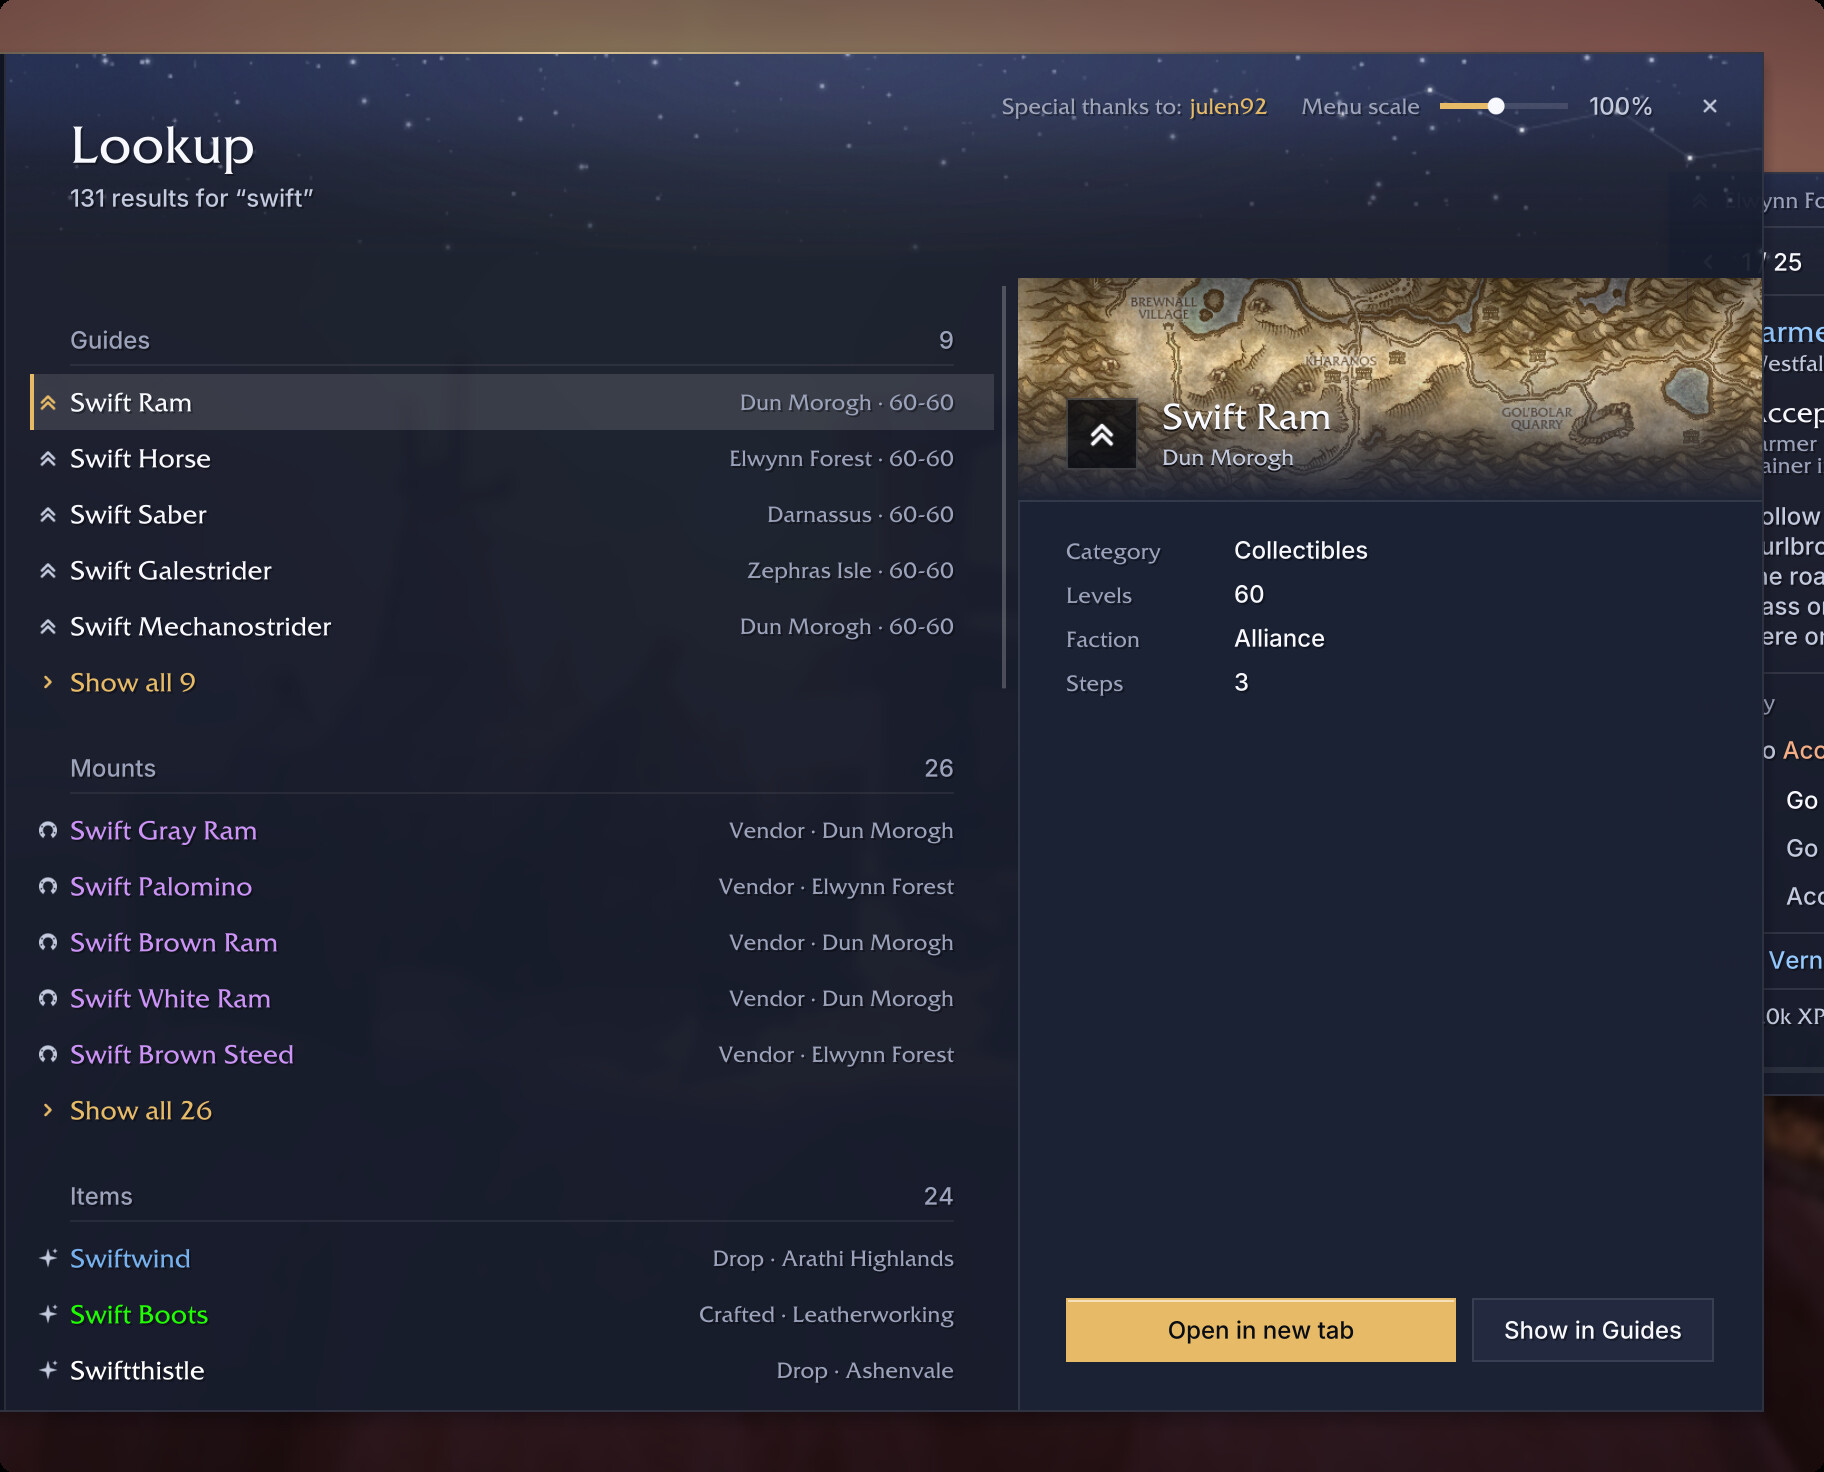
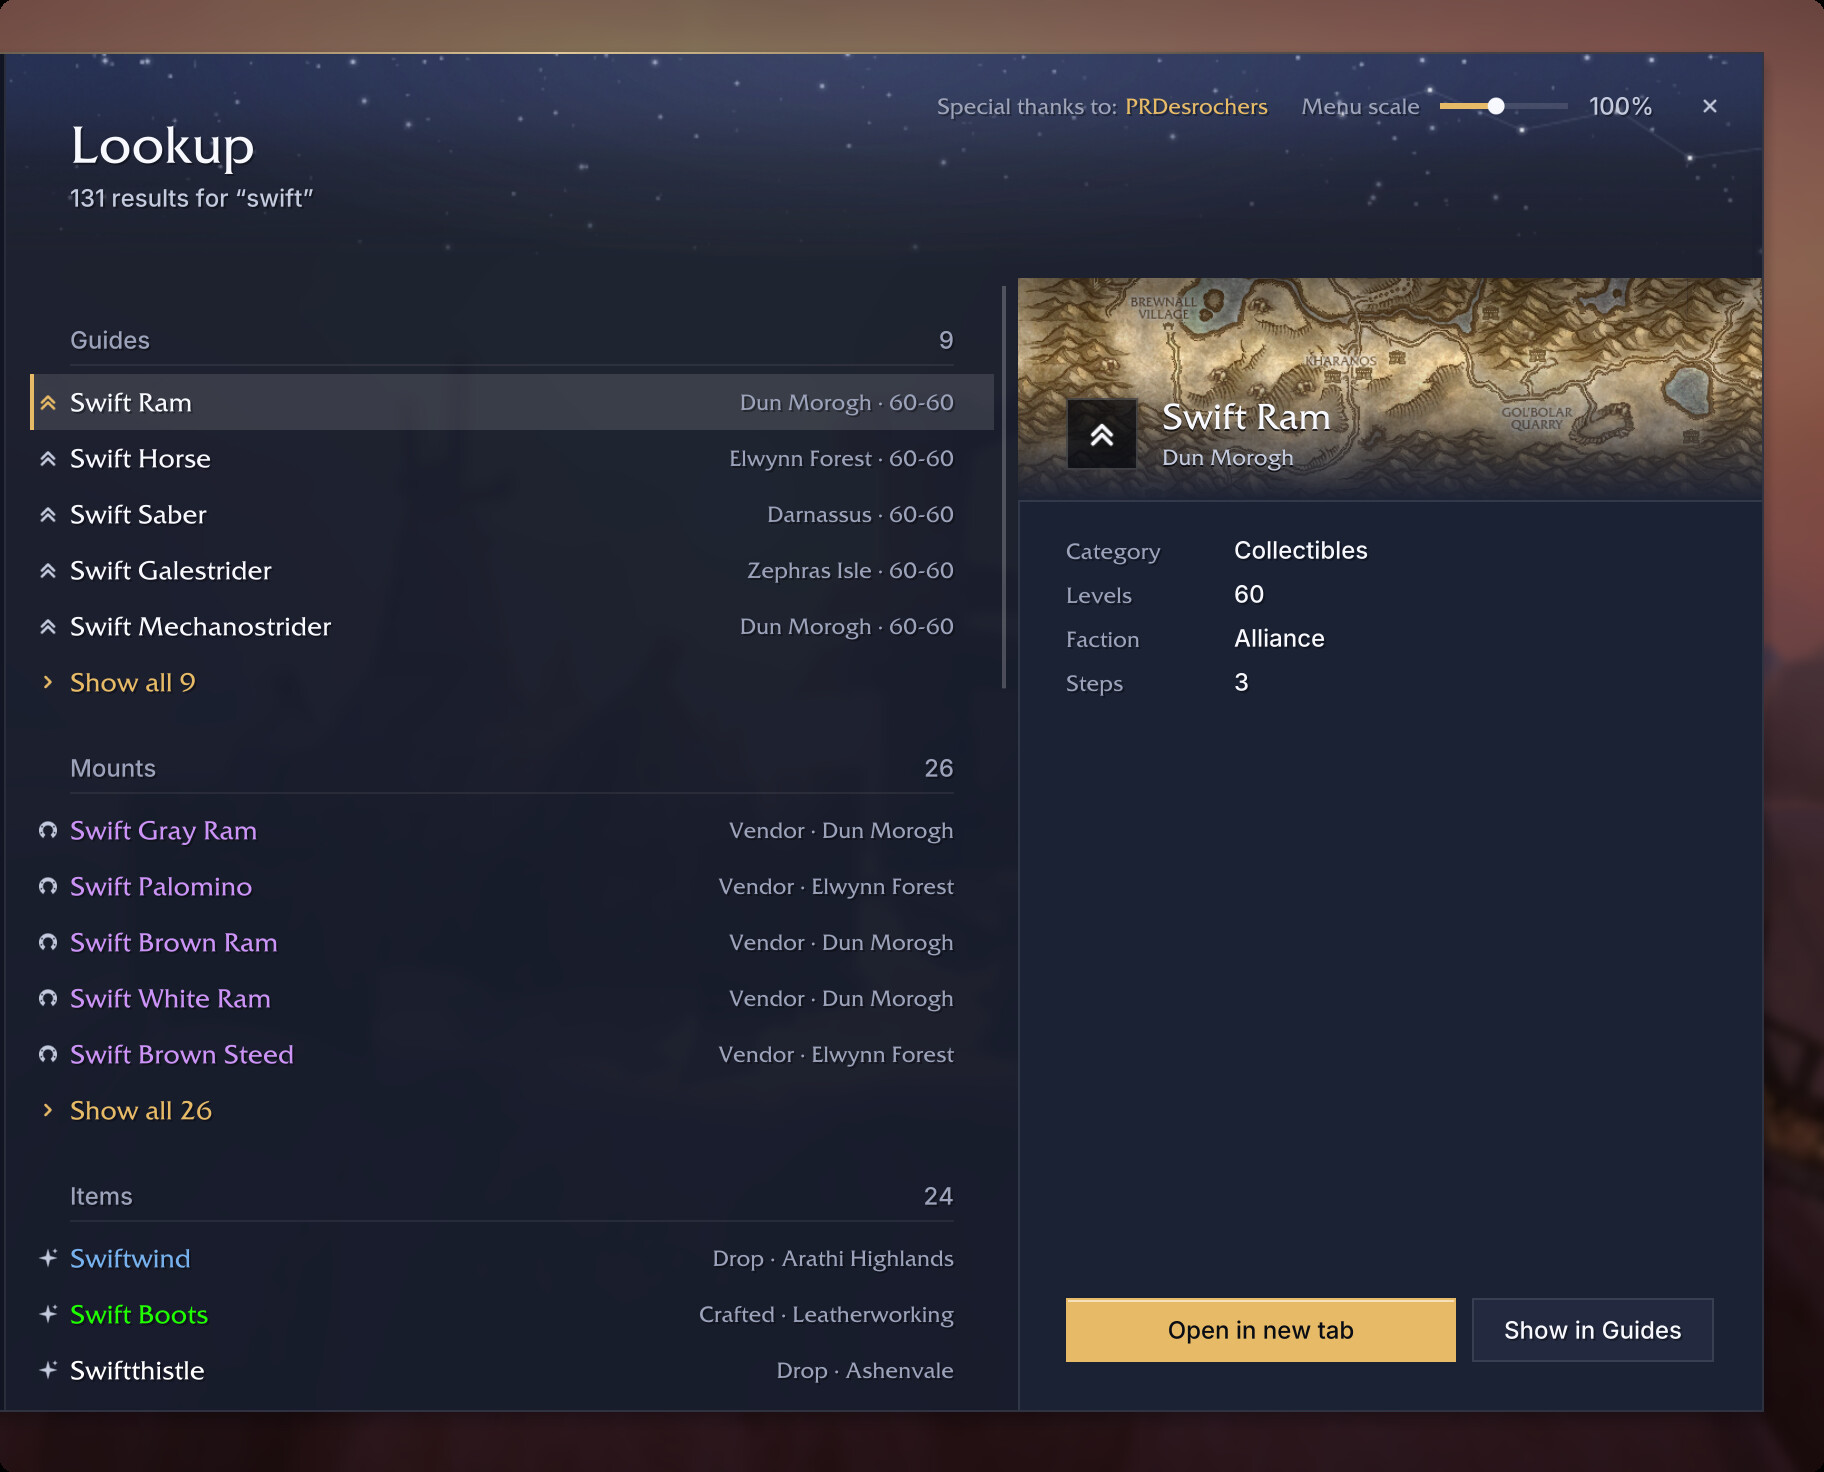
CurseForge listing: a fuller What's new, two more FAQ answers, Lookup and the hub pictures without the guide window's edge
What's new adds tab closing (#971), the arrow's Hearthstone advice and no hearth steps (#968, #969), party chat (#963), the game font as the default (#967) and walks that keep out of zones far above your level (#900), in three groups. The FAQ answers how to close a tab and how to stop the party messages. lookup.jpg and gallery 07-09 are captured again with the guide window hidden, so no second pane is cut off at their right edge.

Changed region(s): [[0.9688, 0.0938, 1.0, 0.75], [0.5, 0.0625, 0.6875, 0.0938]]

diff --git a/docs/curseforge/preview.html b/docs/curseforge/preview.html
@@ -43,13 +43,25 @@ body { background: rgb(13,13,13); color: rgb(153,153,153); font: 16px/1.45 Lato,
 <h1>Routes that make sense.</h1>
 <p><strong>Polestar is a free, open-source guide addon for World of Warcraft: Forever.</strong> Every race from 1 to 60, a guide window that keeps up with you, and an arrow that walks real paths. Every step is one you would pick yourself, with nothing pointless in between.</p>
 <h2>What's new in 0.3.3</h2>
+<p><strong>Windows</strong></p>
 <ul>
-<li><strong>A calmer guide window:</strong> one person at a time, finished goals fold away, and the window stops at half the screen.</li>
+<li><strong>Calmer:</strong> one person at a time, finished goals fold away, and the window stops at half the screen.</li>
 <li><strong>Only your steps:</strong> another class's or race's steps are never shown or counted.</li>
 <li><strong>Along the way</strong> sits under the steps you walk to, and says until which step.</li>
-<li><strong>Nearby services</strong> finds the nearest vendor by what it sells, general goods and the nearest mailbox.</li>
+<li><strong>Tabs close easily:</strong> the × shows on every tab, and the cards on the guide menu's Home close too.</li>
+<li><strong>The game's font</strong> stays the default; Open Sans is a choice under Look › Colour &amp; type.</li>
+</ul>
+<p><strong>Getting around</strong></p>
+<ul>
+<li><strong>Your Hearthstone when it pays:</strong> the arrow suggests it only on long trips and says how much it saves; the guides no longer have hearth steps.</li>
+<li><strong>Safer walks:</strong> without a known flight path, long walks keep out of zones far above your level.</li>
+<li><strong>Nearby services</strong> finds a vendor by what it sells, general goods and the nearest mailbox.</li>
+</ul>
+<p><strong>Questing and friends</strong></p>
+<ul>
 <li><strong>Quest log cleanup</strong> from the guide window's menu, now with grey quests.</li>
-<li><strong>Group play</strong> on by default with party members who also run Polestar.</li>
+<li><strong>Group play</strong> is on by default with party members who also run Polestar.</li>
+<li><strong>Party chat:</strong> Polestar tells your party when you finish an objective or a quest is ready to hand in.</li>
 </ul>
 <hr>
 <h2>The arrow walks real paths</h2>
@@ -91,8 +103,9 @@ body { background: rgb(13,13,13); color: rgb(153,153,153); font: 16px/1.45 Lato,
 </ol>
 <p>Installing by hand: unzip into <code>World of Warcraft/_forever_/Interface/AddOns/</code> so the Polestar folders sit directly inside it, and restart the game. Delete the old Polestar folders before an update.</p>
 <h2>FAQ</h2>
-<p><strong>How do I close a guide tab?</strong><br>Point at the tab in the guide window and click its ×. In the guide menu's Home, each Continue card has one too.</p>
+<p><strong>How do I close a guide tab?</strong><br>Click the × on the tab in the guide window. On the guide menu's Home, point at a card under Continue and click its ×, or right-click the card and choose Close tab.</p>
 <p><strong>How do I clean up my quest log?</strong><br>Open the guide window's ⋯ menu and choose Clean up quest log, or type <code>/polestar questlog</code>.</p>
+<p><strong>How do I stop the party messages?</strong><br>Options › Questing › Quests › Group: turn off "Tell my party in chat when I finish a quest objective".</p>
 <p><strong>Which commands are there?</strong><br><code>/polestar</code> shows the guide window, <code>/polestar guides</code> opens the guide menu, <code>/polestar options</code> holds every setting, <code>/polestar near vendor</code> points at the nearest vendor, and <code>/polestar help</code> lists the rest.</p>
 <p><strong>A step is wrong. How do I report it?</strong><br>Click the bug button on the guide window (or type <code>/polestar report</code>), copy the report, and post it on the <a href="https://discord.gg/vMbee6F2e9">Polestar Discord</a> or as a <a href="https://github.com/fitzforge/polestar/issues">GitHub issue</a>.</p>
 <p><strong>How do recordings help, and how do I opt out?</strong><br>The optional Polestar Recorder notes what happens as you play, with no character, realm or account names, and the Polestar Client sends it so the routes can be fixed from real play. Stop sharing in the Client at any time, or don't install the Recorder.</p>

diff --git a/docs/curseforge/description.html b/docs/curseforge/description.html
@@ -2,13 +2,25 @@
 <h1>Routes that make sense.</h1>
 <p><strong>Polestar is a free, open-source guide addon for World of Warcraft: Forever.</strong> Every race from 1 to 60, a guide window that keeps up with you, and an arrow that walks real paths. Every step is one you would pick yourself, with nothing pointless in between.</p>
 <h2>What's new in 0.3.3</h2>
+<p><strong>Windows</strong></p>
 <ul>
-<li><strong>A calmer guide window:</strong> one person at a time, finished goals fold away, and the window stops at half the screen.</li>
+<li><strong>Calmer:</strong> one person at a time, finished goals fold away, and the window stops at half the screen.</li>
 <li><strong>Only your steps:</strong> another class's or race's steps are never shown or counted.</li>
 <li><strong>Along the way</strong> sits under the steps you walk to, and says until which step.</li>
-<li><strong>Nearby services</strong> finds the nearest vendor by what it sells, general goods and the nearest mailbox.</li>
+<li><strong>Tabs close easily:</strong> the × shows on every tab, and the cards on the guide menu's Home close too.</li>
+<li><strong>The game's font</strong> stays the default; Open Sans is a choice under Look › Colour &amp; type.</li>
+</ul>
+<p><strong>Getting around</strong></p>
+<ul>
+<li><strong>Your Hearthstone when it pays:</strong> the arrow suggests it only on long trips and says how much it saves; the guides no longer have hearth steps.</li>
+<li><strong>Safer walks:</strong> without a known flight path, long walks keep out of zones far above your level.</li>
+<li><strong>Nearby services</strong> finds a vendor by what it sells, general goods and the nearest mailbox.</li>
+</ul>
+<p><strong>Questing and friends</strong></p>
+<ul>
 <li><strong>Quest log cleanup</strong> from the guide window's menu, now with grey quests.</li>
-<li><strong>Group play</strong> on by default with party members who also run Polestar.</li>
+<li><strong>Group play</strong> is on by default with party members who also run Polestar.</li>
+<li><strong>Party chat:</strong> Polestar tells your party when you finish an objective or a quest is ready to hand in.</li>
 </ul>
 <hr>
 <h2>The arrow walks real paths</h2>
@@ -50,8 +62,9 @@
 </ol>
 <p>Installing by hand: unzip into <code>World of Warcraft/_forever_/Interface/AddOns/</code> so the Polestar folders sit directly inside it, and restart the game. Delete the old Polestar folders before an update.</p>
 <h2>FAQ</h2>
-<p><strong>How do I close a guide tab?</strong><br>Point at the tab in the guide window and click its ×. In the guide menu's Home, each Continue card has one too.</p>
+<p><strong>How do I close a guide tab?</strong><br>Click the × on the tab in the guide window. On the guide menu's Home, point at a card under Continue and click its ×, or right-click the card and choose Close tab.</p>
 <p><strong>How do I clean up my quest log?</strong><br>Open the guide window's ⋯ menu and choose Clean up quest log, or type <code>/polestar questlog</code>.</p>
+<p><strong>How do I stop the party messages?</strong><br>Options › Questing › Quests › Group: turn off "Tell my party in chat when I finish a quest objective".</p>
 <p><strong>Which commands are there?</strong><br><code>/polestar</code> shows the guide window, <code>/polestar guides</code> opens the guide menu, <code>/polestar options</code> holds every setting, <code>/polestar near vendor</code> points at the nearest vendor, and <code>/polestar help</code> lists the rest.</p>
 <p><strong>A step is wrong. How do I report it?</strong><br>Click the bug button on the guide window (or type <code>/polestar report</code>), copy the report, and post it on the <a href="https://discord.gg/vMbee6F2e9">Polestar Discord</a> or as a <a href="https://github.com/fitzforge/polestar/issues">GitHub issue</a>.</p>
 <p><strong>How do recordings help, and how do I opt out?</strong><br>The optional Polestar Recorder notes what happens as you play, with no character, realm or account names, and the Polestar Client sends it so the routes can be fixed from real play. Stop sharing in the Client at any time, or don't install the Recorder.</p>

diff --git a/docs/curseforge/description.md b/docs/curseforge/description.md
@@ -6,12 +6,25 @@
 
 ## What's new in 0.3.3
 
-*   **A calmer guide window:** one person at a time, finished goals fold away, and the window stops at half the screen.
+**Windows**
+
+*   **Calmer:** one person at a time, finished goals fold away, and the window stops at half the screen.
 *   **Only your steps:** another class's or race's steps are never shown or counted.
 *   **Along the way** sits under the steps you walk to, and says until which step.
-*   **Nearby services** finds the nearest vendor by what it sells, general goods and the nearest mailbox.
+*   **Tabs close easily:** the × shows on every tab, and the cards on the guide menu's Home close too.
+*   **The game's font** stays the default; Open Sans is a choice under Look › Colour & type.
+
+**Getting around**
+
+*   **Your Hearthstone when it pays:** the arrow suggests it only on long trips and says how much it saves; the guides no longer have hearth steps.
+*   **Safer walks:** without a known flight path, long walks keep out of zones far above your level.
+*   **Nearby services** finds a vendor by what it sells, general goods and the nearest mailbox.
+
+**Questing and friends**
+
 *   **Quest log cleanup** from the guide window's menu, now with grey quests.
-*   **Group play** on by default with party members who also run Polestar.
+*   **Group play** is on by default with party members who also run Polestar.
+*   **Party chat:** Polestar tells your party when you finish an objective or a quest is ready to hand in.
 
 ***
 
@@ -82,10 +95,13 @@ Installing by hand: unzip into `World of Warcraft/_forever_/Interface/AddOns/` s
 ## FAQ
 
 **How do I close a guide tab?**  
-Point at the tab in the guide window and click its ×. In the guide menu's Home, each Continue card has one too.
+Click the × on the tab in the guide window. On the guide menu's Home, point at a card under Continue and click its ×, or right-click the card and choose Close tab.
 
 **How do I clean up my quest log?**  
 Open the guide window's ⋯ menu and choose Clean up quest log, or type `/polestar questlog`.
+
+**How do I stop the party messages?**  
+Options › Questing › Quests › Group: turn off "Tell my party in chat when I finish a quest objective".
 
 **Which commands are there?**  
 `/polestar` shows the guide window, `/polestar guides` opens the guide menu, `/polestar options` holds every setting, `/polestar near vendor` points at the nearest vendor, and `/polestar help` lists the rest.

diff --git a/docs/curseforge/README.md b/docs/curseforge/README.md
@@ -38,7 +38,7 @@ high-density screens.
 | `media/journey.png` | 776x1122 | 388x561 | 334 KB |
 | `media/nearby.gif` | 978x789, 7.9 s | 652x526 | 379 KB |
 | `media/picker.gif` | 1256x970, 7.2 s | 836x646 | 424 KB |
-| `media/lookup.jpg` | 1824x1472 | 836x675 | 293 KB |
+| `media/lookup.jpg` | 1824x1472 | 836x675 | 282 KB |
 | `media/questlog.png` | 856x944 | 428x472 | 331 KB |
 
 The banner and avatar are drawn in code: `node tools/polestar.js readme
